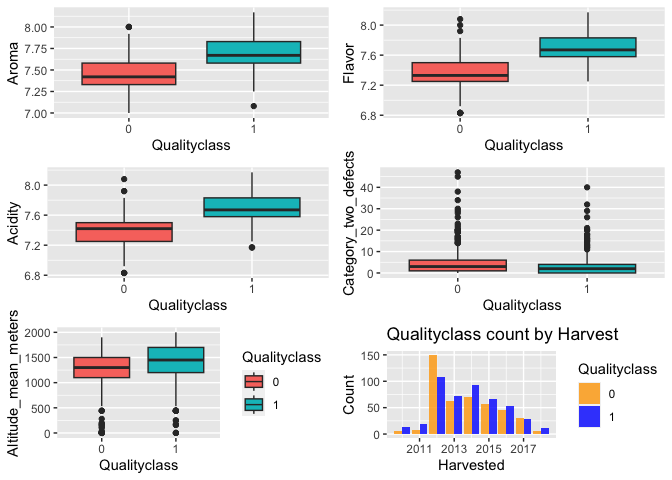
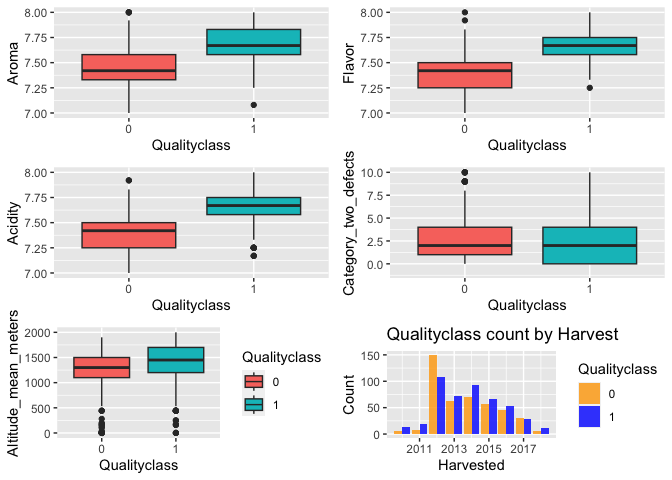
Another change of the file

diff --git a/Group15.md b/Group15.md
@@ -1,4 +1,4 @@
-Groupwork2
+DAS-Group-15
 ================
 2023-03-15
 
@@ -9,18 +9,17 @@ library(gridExtra)
 library(ggplot2)
 ```
 
-<<<<<<< HEAD
 # Data Introduction
 
 This data come from the Coffee Quality Database (CQD). The database
 contains information from the CoffeevQuality Institute which is a
 non-profit organisation working internationally to improve the quality
 of coffee and thelives of the people who produce it. Each of the 5
-datasets contain information on features of coffee and its production,
+datasets contain information on features of coffee and its production
 includinan overall score of quality. • *country_of_origin* – Country
 where the coffee bean originates from. • *aroma* – Aroma grade (ranging
 from 0-10) • *flavor* – Flavour grade (ranging from 0-10) • *acidity* –
-Acidity grade (ranging from 0-10) • *category*\_two_defects – Count of
+Acidity grade (ranging from 0-10) • *category_two_defects* – Count of
 category 2 type defects in the batch of coffee beans tested. •
 *altitiude_mean_meters* – Mean altitude of the growers farm (in metres)
 • *harvested* – Year the batch was harvested • *Qualityclass* – Quality
@@ -30,18 +29,6 @@ score for the batch (Good - ≥ 82.5, Poor - \<82.5).
 
 First clear the null lines in the data, and then delete all lines with
 the line name *Taiwan* since *Taiwan* is not a country.
-=======
-    ## ── Attaching core tidyverse packages ──────────────────────── tidyverse 2.0.0 ──
-    ## ✔ dplyr     1.1.0     ✔ readr     2.1.4
-    ## ✔ forcats   1.0.0     ✔ stringr   1.5.0
-    ## ✔ ggplot2   3.4.1     ✔ tibble    3.1.8
-    ## ✔ lubridate 1.9.2     ✔ tidyr     1.3.0
-    ## ✔ purrr     1.0.1     
-    ## ── Conflicts ────────────────────────────────────────── tidyverse_conflicts() ──
-    ## ✖ dplyr::filter() masks stats::filter()
-    ## ✖ dplyr::lag()    masks stats::lag()
-    ## ℹ Use the ]8;;http://conflicted.r-lib.org/conflicted package]8;; to force all conflicts to become errors
->>>>>>> 60034cc38bd34d98f2c386aeafe4e9aa75ac47e6
 
 ``` r
 coffee.data <- read.csv("/Users/sunyazhu/Desktop/University of Glasgow/R program/AllDatasetsR/coffee.csv")
@@ -63,6 +50,12 @@ A subset with reasonable data distribution is selected from
 
 ``` r
 quantiles_aroma <- quantile(coffee.data$aroma,probs=c(0.25,0.75),na.rm=FALSE)
+```
+
+## Clearing outliers
+
+``` r
+quantiles_aroma <- quantile(coffee$aroma,probs=c(0.25,0.75),na.rm=FALSE)
 IQR_aroma <- IQR(coffee$aroma)
 Lower_aroma <- quantiles_aroma[1]-1.5*IQR_aroma
 Upper_aroma <- quantiles_aroma[2]+1.5*IQR_aroma
@@ -82,26 +75,10 @@ coffee<- subset(coffee,coffee$acidity>Lower_acidity & coffee$acidity< Upper_acid
 coffee
 ```
 
-Store the cleared data
+## Store the cleared data
 
 ``` r
 write.csv(coffee,file="/Users/sunyazhu/Desktop/University of Glasgow/R program/AllDatasetsR/coffee_clean.csv",row.names=FALSE)
-```
-
-# Standardized data
-
-``` r
-## Creates a logical vector that determines which columns in the data box coffee contain numeric data. It uses the function sapply to determine whether the data type of each column is numeric.
-numeric_cols <- sapply(coffee,is.numeric)
-## The columns containing only numerical data in data box coffee are extracted and assigned to new data box numeric_coffee
-numeric_coffee <- coffee[,numeric_cols]
-## A new data box scaled_coffee is obtained by standardizing numerical data in numeric_coffee. The standardization process is to transform the data range of different variables into the same scale for easy comparison.
-scaled_coffee <- as.data.frame(scale(numeric_coffee))
-## Add the category_two_defects column from the original data box coffee to scaled_coffee.
-scaled_coffee$category_two_defects <- coffee$category_two_defects
-## Assign the numerical data in the standardized data frame scaled_coffee back to the corresponding column in the original data frame coffee, and overwrite the original data.
-coffee[,numeric_cols] <- scaled_coffee
-coffee
 ```
 
 # Correlation test between variables
@@ -125,103 +102,125 @@ coffee
 
 # Data visualization
 
-``` r
-## Numeric variables are converted to factor variables
-coffee.clean$Qualityclass <- factor(coffee.clean$Qualityclass)
-plot1 <- ggplot(data = coffee.clean,aes(x = Qualityclass, y = aroma, fill = Qualityclass)) +
-  geom_boxplot() +
-  labs(x = "Qualityclass", y = "Aroma") + 
-  theme(legend.position = "none")
-
-plot2 <- ggplot(data = coffee.clean,aes(x = Qualityclass, y = flavor, fill = Qualityclass)) +
-  geom_boxplot() +
-  labs(x = "Qualityclass", y = "Flavor") + 
-  theme(legend.position = "none")
-
-plot3 <- ggplot(data = coffee.clean,aes(x = Qualityclass, y = acidity, fill = Qualityclass)) +
-  geom_boxplot() +
-  labs(x = "Qualityclass", y = "Acidity") + 
-  theme(legend.position = "none")
-
-plot4 <- ggplot(data = coffee.clean,aes(x = Qualityclass, y = category_two_defects, fill = Qualityclass)) +
-  geom_boxplot() +
-  labs(x = "Qualityclass", y = "Category_two_defects") + 
-  theme(legend.position = "none")
-
-plot5 <- ggplot(data = coffee.clean,aes(x = Qualityclass, y = altitude_mean_meters, fill = Qualityclass)) +
-  geom_boxplot() +
-  labs(x = "Qualityclass", y = "Altitude_mean_meters") + 
-  ylim(0,2000)
-  theme(legend.position = "none")
-```
-
     ## List of 1
     ##  $ legend.position: chr "none"
     ##  - attr(*, "class")= chr [1:2] "theme" "gg"
     ##  - attr(*, "complete")= logi FALSE
     ##  - attr(*, "validate")= logi TRUE
 
-``` r
-## The number of different quality inspection results in each year
-plot6 <- ggplot(coffee.clean, aes(x=harvested, fill=as.factor(Qualityclass))) +
-  geom_bar(position="dodge", alpha=0.8, stat="count") +
-  scale_fill_manual(values=c("Orange", "Blue")) +
-  labs(x="Harvested", y="Count", fill="Qualityclass") +
-  ggtitle("Qualityclass count by Harvest")
+    ## Warning: Removed 24 rows containing non-finite values (`stat_boxplot()`).
 
-## Merge six charts
-## Arrange plot1 to plot6 in a grid of 2 rows and 3 columns
-grid.arrange(plot1, plot2, plot3, plot4, plot5, plot6, nrow=3, ncol=2)
-```
+    ## Warning: Removed 37 rows containing non-finite values (`stat_boxplot()`).
+
+    ## Warning: Removed 28 rows containing non-finite values (`stat_boxplot()`).
+
+    ## Warning: Removed 67 rows containing non-finite values (`stat_boxplot()`).
 
     ## Warning: Removed 24 rows containing non-finite values (`stat_boxplot()`).
 
 ![](Group15_files/figure-gfm/unnamed-chunk-8-1.png)<!-- -->
 
+# Standardized data
+
+``` r
+## Creates a logical vector that determines which columns in the data box coffee contain numeric data. It uses the function sapply to determine whether the data type of each column is numeric.
+numeric_cols <- sapply(coffee,is.numeric)
+## The columns containing only numerical data in data box coffee are extracted and assigned to new data box numeric_coffee
+numeric_coffee <- coffee[,numeric_cols]
+## A new data box scaled_coffee is obtained by standardizing numerical data in numeric_coffee. The standardization process is to transform the data range of different variables into the same scale for easy comparison.
+scaled_coffee <- as.data.frame(scale(numeric_coffee))
+## Add the category_two_defects column from the original data box coffee to scaled_coffee.
+scaled_coffee$category_two_defects <- coffee$category_two_defects
+## Assign the numerical data in the standardized data frame scaled_coffee back to the corresponding column in the original data frame coffee, and overwrite the original data.
+coffee[,numeric_cols] <- scaled_coffee
+coffee
+```
+
 # Modeling
+
+``` r
+model1 <- glm(Qualityclass~aroma+flavor+acidity,family=binomial(link="logit"),
+              data=coffee)
+model2 <- glm(Qualityclass~aroma*flavor+acidity,family=binomial(link="logit"),
+              data=coffee)
+model3 <- glm(Qualityclass~aroma+flavor*acidity,family=binomial(link="logit"),
+              data=coffee)
+model4 <- glm(Qualityclass~aroma*acidity+flavor,family=binomial(link="logit"),
+              data=coffee)
+model5 <- glm(Qualityclass~aroma*flavor+aroma*acidity,family=binomial(link="logit"),
+              data=coffee)
+model6 <- glm(Qualityclass~aroma*flavor+acidity*flavor,family=binomial(link="logit"),
+              data=coffee)
+model7 <- glm(Qualityclass~aroma*acidity+flavor*acidity,family=binomial(link="logit"),
+              data=coffee)
+model8 <- glm(Qualityclass~aroma*flavor+acidity*flavor+acidity*aroma,family=binomial(link="logit"),
+              data=coffee)
+model9 <- glm(Qualityclass~aroma*flavor*acidity,family=binomial(link="logit"),
+              data=coffee)
+model10 <- glm(Qualityclass~aroma+flavor,family=binomial(link="logit"),
+              data=coffee)
+model11 <- glm(Qualityclass~flavor+acidity,family=binomial(link="logit"),
+              data=coffee)
+model12 <- glm(Qualityclass~aroma+acidity,family=binomial(link="logit"),
+              data=coffee)
+anova(model1,model2,model3,model4,model5,model6,model7,
+      model8,model9,model10,model11,model12)
+```
 
     ## Analysis of Deviance Table
     ## 
-    ## Model 1: Qualityclass ~ aroma + flavor + acidity
-    ## Model 2: Qualityclass ~ aroma * flavor + acidity
-    ## Model 3: Qualityclass ~ aroma + flavor * acidity
-    ## Model 4: Qualityclass ~ aroma * acidity + flavor
-    ## Model 5: Qualityclass ~ aroma * flavor + aroma * acidity
-    ## Model 6: Qualityclass ~ aroma * flavor + acidity * flavor
-    ## Model 7: Qualityclass ~ aroma * acidity + flavor * acidity
-    ## Model 8: Qualityclass ~ aroma * flavor + acidity * flavor + acidity * 
+    ## Model  1: Qualityclass ~ aroma + flavor + acidity
+    ## Model  2: Qualityclass ~ aroma * flavor + acidity
+    ## Model  3: Qualityclass ~ aroma + flavor * acidity
+    ## Model  4: Qualityclass ~ aroma * acidity + flavor
+    ## Model  5: Qualityclass ~ aroma * flavor + aroma * acidity
+    ## Model  6: Qualityclass ~ aroma * flavor + acidity * flavor
+    ## Model  7: Qualityclass ~ aroma * acidity + flavor * acidity
+    ## Model  8: Qualityclass ~ aroma * flavor + acidity * flavor + acidity * 
     ##     aroma
-    ## Model 9: Qualityclass ~ aroma * flavor * acidity
-    ##   Resid. Df Resid. Dev Df Deviance
-    ## 1       895     560.73            
-    ## 2       894     556.92  1   3.8068
-    ## 3       894     559.31  0  -2.3874
-    ## 4       894     559.35  0  -0.0387
-    ## 5       893     556.16  1   3.1888
-    ## 6       893     555.58  0   0.5774
-    ## 7       893     558.13  0  -2.5544
-    ## 8       892     555.07  1   3.0631
-    ## 9       891     554.98  1   0.0890
+    ## Model  9: Qualityclass ~ aroma * flavor * acidity
+    ## Model 10: Qualityclass ~ aroma + flavor
+    ## Model 11: Qualityclass ~ flavor + acidity
+    ## Model 12: Qualityclass ~ aroma + acidity
+    ##    Resid. Df Resid. Dev Df Deviance
+    ## 1        895     560.73            
+    ## 2        894     556.92  1    3.807
+    ## 3        894     559.31  0   -2.387
+    ## 4        894     559.35  0   -0.039
+    ## 5        893     556.16  1    3.189
+    ## 6        893     555.58  0    0.577
+    ## 7        893     558.13  0   -2.554
+    ## 8        892     555.07  1    3.063
+    ## 9        891     554.98  1    0.089
+    ## 10       896     612.86 -5  -57.882
+    ## 11       896     623.63  0  -10.769
+    ## 12       896     668.01  0  -44.377
+
+``` r
+summary(model9)
+```
 
     ## 
     ## Call:
     ## glm(formula = Qualityclass ~ aroma * flavor * acidity, family = binomial(link = "logit"), 
-    ##     data = coffee.clean)
+    ##     data = coffee)
     ## 
     ## Deviance Residuals: 
     ##     Min       1Q   Median       3Q      Max  
     ## -3.3244  -0.2890   0.0973   0.4774   2.4013  
     ## 
     ## Coefficients:
-    ##                       Estimate Std. Error z value Pr(>|z|)
-    ## (Intercept)          -3907.418   9756.355  -0.400    0.689
-    ## aroma                  463.113   1268.246   0.365    0.715
-    ## flavor                 483.055   1281.085   0.377    0.706
-    ## acidity                441.778   1294.546   0.341    0.733
-    ## aroma:flavor           -57.411    166.499  -0.345    0.730
-    ## aroma:acidity          -52.376    168.286  -0.311    0.756
-    ## flavor:acidity         -54.628    169.950  -0.321    0.748
-    ## aroma:flavor:acidity     6.507     22.089   0.295    0.768
+    ##                      Estimate Std. Error z value Pr(>|z|)    
+    ## (Intercept)           0.02205    0.11010   0.200   0.8413    
+    ## aroma                 1.27037    0.17537   7.244 4.36e-13 ***
+    ## flavor                2.04169    0.23186   8.806  < 2e-16 ***
+    ## acidity               1.20831    0.18136   6.662 2.69e-11 ***
+    ## aroma:flavor         -0.51524    0.28630  -1.800   0.0719 .  
+    ## aroma:acidity        -0.20096    0.25986  -0.773   0.4393    
+    ## flavor:acidity       -0.34362    0.32587  -1.054   0.2917    
+    ## aroma:flavor:acidity  0.10076    0.34201   0.295   0.7683    
+    ## ---
+    ## Signif. codes:  0 '***' 0.001 '**' 0.01 '*' 0.05 '.' 0.1 ' ' 1
     ## 
     ## (Dispersion parameter for binomial family taken to be 1)
     ## 
@@ -231,25 +230,89 @@ grid.arrange(plot1, plot2, plot3, plot4, plot5, plot6, nrow=3, ncol=2)
     ## 
     ## Number of Fisher Scoring iterations: 8
 
+``` r
+AIC(model1)
+```
+
     ## [1] 568.7271
+
+``` r
+AIC(model2)
+```
 
     ## [1] 566.9203
 
+``` r
+AIC(model3)
+```
+
     ## [1] 569.3077
+
+``` r
+AIC(model4)
+```
 
     ## [1] 569.3465
 
+``` r
+AIC(model5)
+```
+
     ## [1] 568.1577
+
+``` r
+AIC(model6)
+```
 
     ## [1] 567.5803
 
+``` r
+AIC(model7)
+```
+
     ## [1] 570.1348
+
+``` r
+AIC(model8)
+```
 
     ## [1] 569.0716
 
+``` r
+AIC(model9)
+```
+
     ## [1] 570.9826
 
-# test
-dsadasdasd
+``` r
+AIC(model10)
+```
 
-# lalala
+    ## [1] 618.8648
+
+``` r
+AIC(model11)
+```
+
+    ## [1] 629.634
+
+``` r
+AIC(model12)
+```
+
+    ## [1] 674.0113
+
+``` r
+library(ROCR)
+coffee.pr <- predict(model1, type="response")
+score <- prediction(coffee.pr,coffee$Qualityclass)
+perf <- performance(score,"tpr","fpr")
+auc <- performance(score,"auc")
+perfd <- data.frame(x= perf@x.values[1][[1]], y=perf@y.values[1][[1]])
+p1 <- ggplot(perfd, aes(x= x, y=y)) + geom_line() +
+  xlab("False positive rate") + ylab("True positive rate") +
+  ggtitle(paste("Area under the curve:", round(auc@y.values[[1]], 3)))
+p1
+```
+
+![](Group15_files/figure-gfm/unnamed-chunk-11-1.png)<!-- -->
